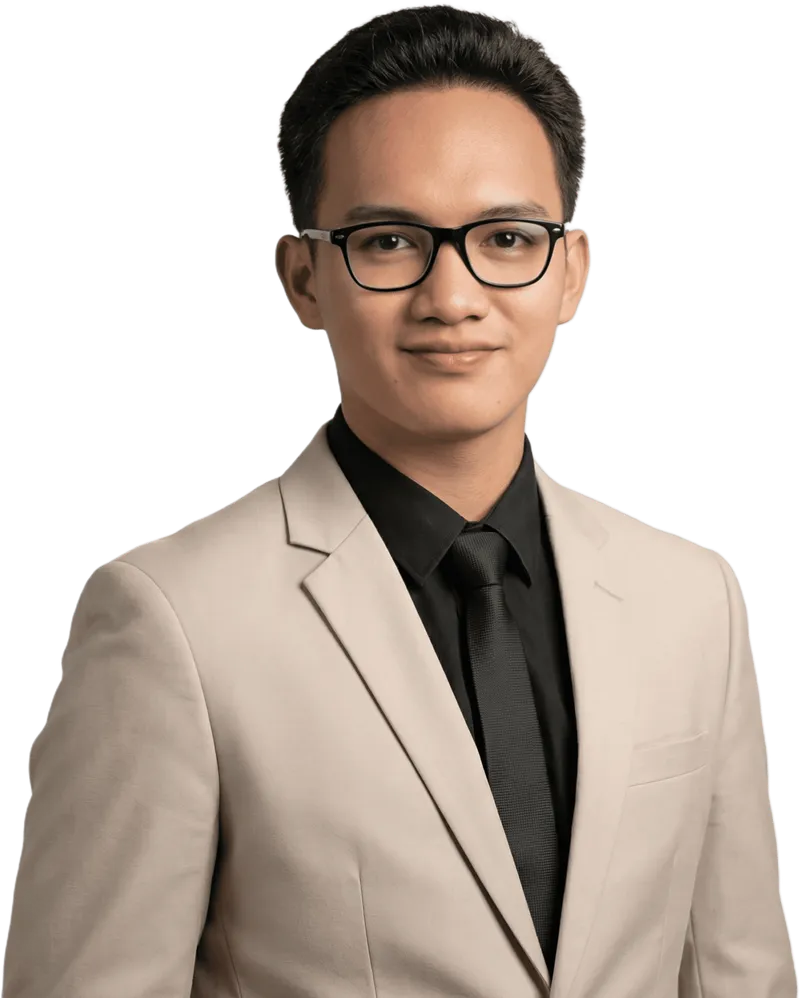
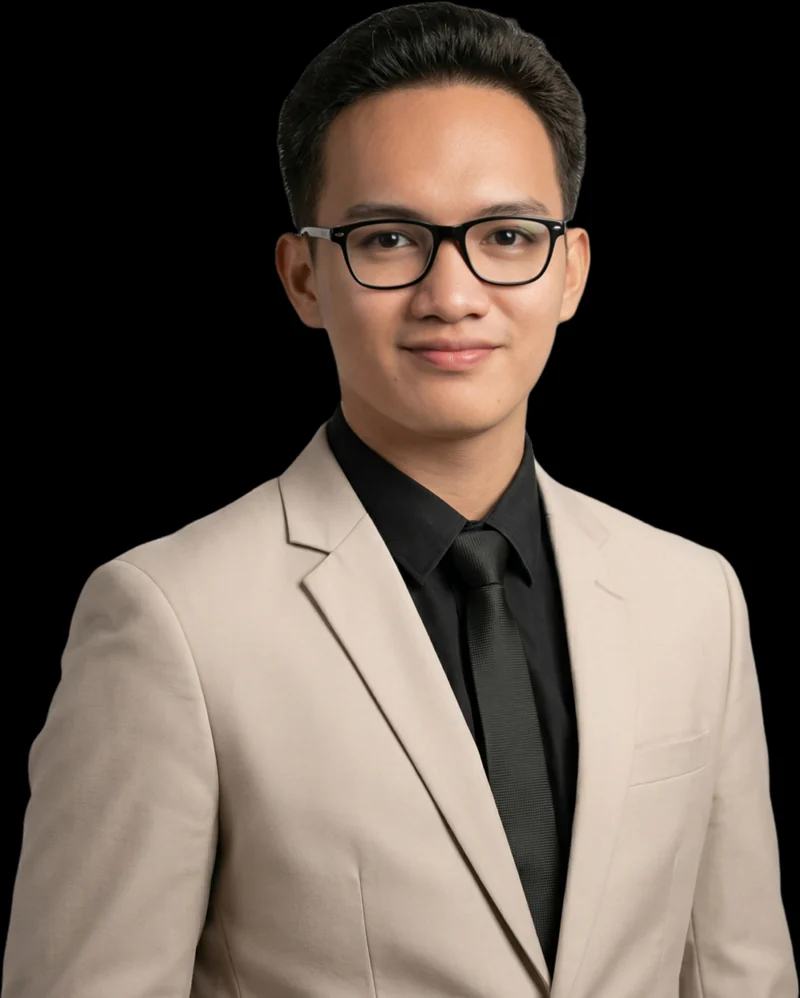
use the original portrait photo
The old file was a different, over-retouched export at lower quality.

diff --git a/components/About.tsx b/components/About.tsx
@@ -10,6 +10,8 @@ export function About() {
             <img
               src={asset("/assets/photo.webp")}
               alt={site.name}
+              width={800}
+              height={998}
               loading="lazy"
               decoding="async"
               className="w-full object-cover"
